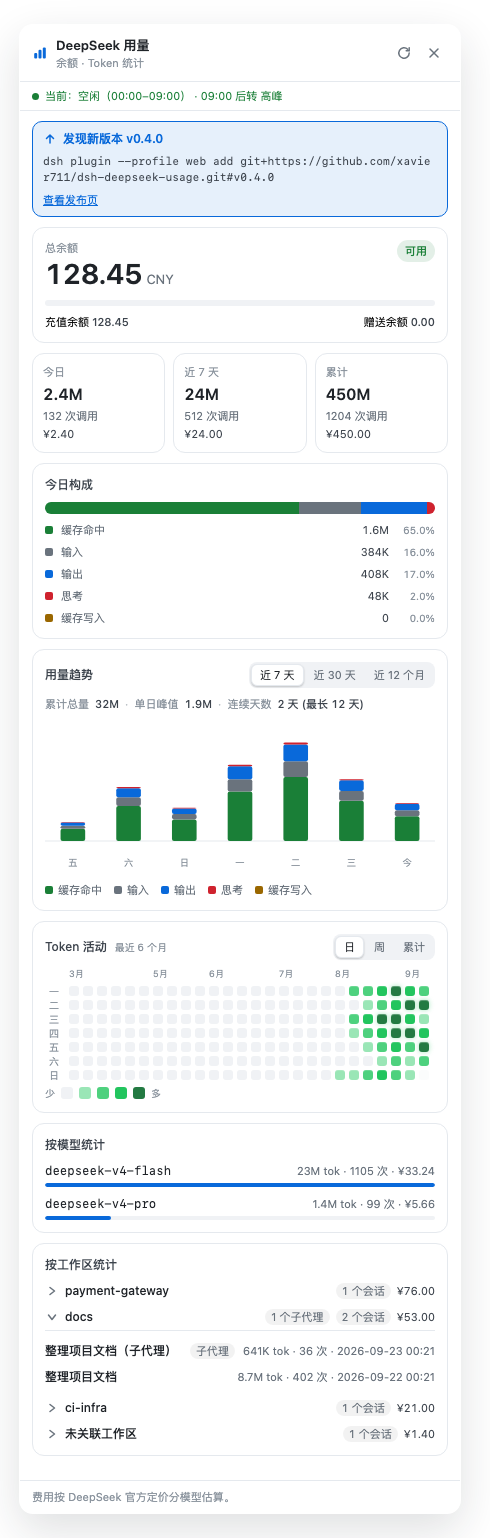
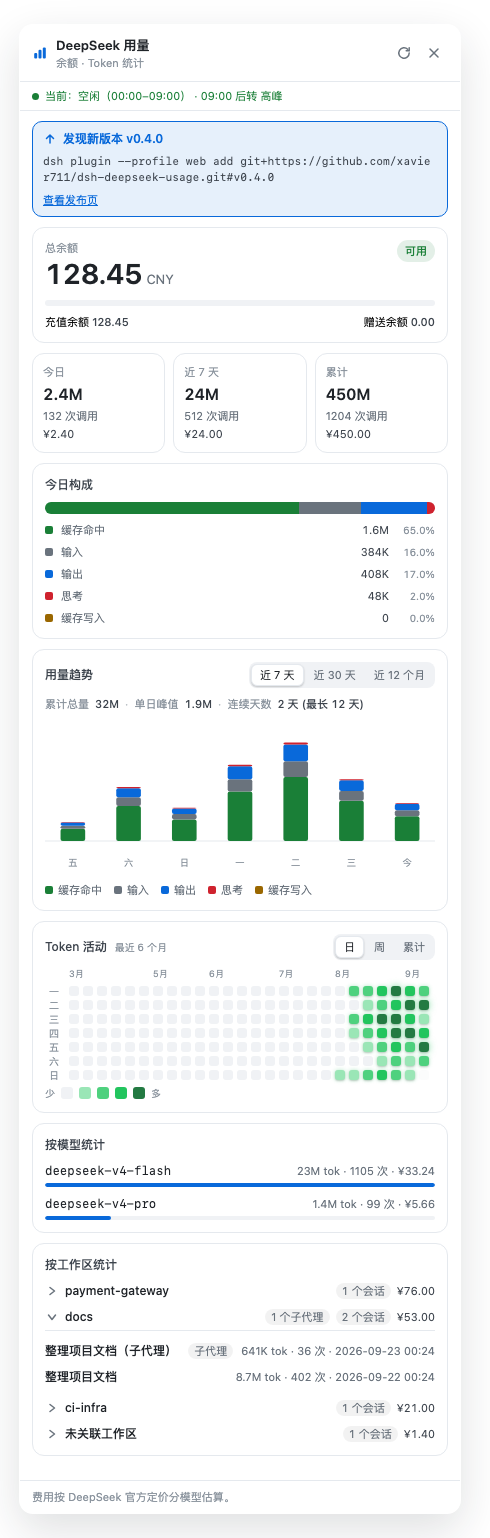
去掉列底色，改成「这一列每个格子自己带阴影」
用户第二次纠正：「没有高亮的底。codex 是这样的：列视图的时候，是这一列的每个格子
有高光，其实看起来就是阴影吧。」

- 去掉整列垫底（.du-activityWeek[data-active]::before 与配套的 hoverCol 状态、
  鼠标事件全部移除）—— 列本身不加任何背景。
- 有量的格子改成「投影 + 同色柔光」：深色 0 1px 3px rgba(0,0,0,.55) +
  0 0 5px rgba(34,197,94,.32)，最深一档柔光到 0 0 8px rgba(34,197,94,.6)；
  浅色把投影透明度降到 .18。空格子 box-shadow: none。
- 红线（AGENTS.md 也记了）：不压列内间距合并、不给列加底色。

实测：l4 = "rgba(0,0,0,.55) 0 1px 3px, rgba(34,197,94,.6) 0 0 8px"、
l2 柔光弱一档、空格子 none；列的 ::before background 是 transparent；
列内 gap 仍是 4px、列高 94px。47 条测试通过，截图重出。

Changed region(s): [[0.4898, 0.8739, 0.8878, 0.9051], [0.7041, 0.6242, 0.8878, 0.7178], [0.398, 0.8739, 0.4592, 0.9051]]

diff --git a/screenshots/render-test.html b/screenshots/render-test.html
@@ -243,7 +243,7 @@ window.__ZH = {
   const SAMPLE = {
  "/dsh-usage/balance": {
   "ok": true,
-  "fetchedAt": 1790180479581,
+  "fetchedAt": 1790180676440,
   "isAvailable": true,
   "currency": "CNY",
   "totalBalance": "128.45",
@@ -252,13 +252,13 @@ window.__ZH = {
  },
  "/dsh-usage/local": {
   "ok": true,
-  "fetchedAt": 1790180479581,
+  "fetchedAt": 1790180676440,
   "sessionCount": 3,
   "errorSessions": 0,
   "pricing": {
    "currency": "CNY",
    "note": "official",
-   "newPricingAt": 1790180479581,
+   "newPricingAt": 1790180676440,
    "weekendOffPeakAt": 1787414400000,
    "holidayOffPeakAt": 1789747200000,
    "peakHours": [
@@ -4058,8 +4058,8 @@ window.__ZH = {
     "title": "优化支付网关性能",
     "workspace": "/Users/alice/dev/payment-gateway",
     "subagent": false,
-    "createdAt": 1790094079581,
-    "lastActiveAt": 1790176879581,
+    "createdAt": 1790094276440,
+    "lastActiveAt": 1790177076440,
     "calls": 618,
     "inputTokens": 1900000,
     "outputTokens": 2100000,
@@ -4074,8 +4074,8 @@ window.__ZH = {
     "title": "整理项目文档",
     "workspace": "/Users/alice/docs",
     "subagent": false,
-    "createdAt": 1790007679581,
-    "lastActiveAt": 1790007679581,
+    "createdAt": 1790007876440,
+    "lastActiveAt": 1790007876440,
     "calls": 402,
     "inputTokens": 1300000,
     "outputTokens": 1500000,
@@ -4090,8 +4090,8 @@ window.__ZH = {
     "title": "修复 CI 流水线",
     "workspace": "/Users/alice/ci-infra",
     "subagent": false,
-    "createdAt": 1789921279581,
-    "lastActiveAt": 1789921279581,
+    "createdAt": 1789921476440,
+    "lastActiveAt": 1789921476440,
     "calls": 184,
     "inputTokens": 500000,
     "outputTokens": 600000,
@@ -4106,8 +4106,8 @@ window.__ZH = {
     "title": "整理项目文档（子代理）",
     "workspace": "/Users/alice/docs",
     "subagent": true,
-    "createdAt": 1790007679581,
-    "lastActiveAt": 1790094079581,
+    "createdAt": 1790007876440,
+    "lastActiveAt": 1790094276440,
     "calls": 36,
     "inputTokens": 90000,
     "outputTokens": 110000,
@@ -4122,8 +4122,8 @@ window.__ZH = {
     "title": "临时想法速记",
     "workspace": null,
     "subagent": false,
-    "createdAt": 1789834879581,
-    "lastActiveAt": 1789834879581,
+    "createdAt": 1789835076440,
+    "lastActiveAt": 1789835076440,
     "calls": 27,
     "inputTokens": 60000,
     "outputTokens": 80000,
@@ -4177,8 +4177,8 @@ window.__ZH = {
       "id": "s1",
       "title": "优化支付网关性能",
       "subagent": false,
-      "createdAt": 1790094079581,
-      "lastActiveAt": 1790176879581,
+      "createdAt": 1790094276440,
+      "lastActiveAt": 1790177076440,
       "calls": 618,
       "inputTokens": 1900000,
       "outputTokens": 2100000,
@@ -4231,8 +4231,8 @@ window.__ZH = {
       "id": "s2",
       "title": "整理项目文档",
       "subagent": false,
-      "createdAt": 1790007679581,
-      "lastActiveAt": 1790007679581,
+      "createdAt": 1790007876440,
+      "lastActiveAt": 1790007876440,
       "calls": 402,
       "inputTokens": 1300000,
       "outputTokens": 1500000,
@@ -4245,8 +4245,8 @@ window.__ZH = {
       "id": "s4",
       "title": "整理项目文档（子代理）",
       "subagent": true,
-      "createdAt": 1790007679581,
-      "lastActiveAt": 1790094079581,
+      "createdAt": 1790007876440,
+      "lastActiveAt": 1790094276440,
       "calls": 36,
       "inputTokens": 90000,
       "outputTokens": 110000,
@@ -4299,8 +4299,8 @@ window.__ZH = {
       "id": "s3",
       "title": "修复 CI 流水线",
       "subagent": false,
-      "createdAt": 1789921279581,
-      "lastActiveAt": 1789921279581,
+      "createdAt": 1789921476440,
+      "lastActiveAt": 1789921476440,
       "calls": 184,
       "inputTokens": 500000,
       "outputTokens": 600000,
@@ -4353,8 +4353,8 @@ window.__ZH = {
       "id": "s5",
       "title": "临时想法速记",
       "subagent": false,
-      "createdAt": 1789834879581,
-      "lastActiveAt": 1789834879581,
+      "createdAt": 1789835076440,
+      "lastActiveAt": 1789835076440,
       "calls": 27,
       "inputTokens": 60000,
       "outputTokens": 80000,
@@ -4369,7 +4369,7 @@ window.__ZH = {
  },
  "/dsh-usage/version": {
   "ok": true,
-  "checkedAt": 1790180479581,
+  "checkedAt": 1790180676440,
   "installed": "0.1.0",
   "latest": "0.4.0",
   "updateAvailable": true,
@@ -4377,7 +4377,7 @@ window.__ZH = {
  },
  "/dsh-usage/period": {
   "ok": true,
-  "now": 1790180479581,
+  "now": 1790180676440,
   "period": "offPeak",
   "range": [
    0,

diff --git a/lib/client.js b/lib/client.js
@@ -199,16 +199,13 @@ window.__ModuleLoader__.load({
    所以改尺寸必须看探针的 BUDGET=...:fit|OVERFLOW。 */
 .du-activityCell{width:10px;height:10px;border-radius:3px;flex:none;position:relative;transition:opacity .1s}
 .du-activityCell[data-dim]{opacity:.25}
-/* 有量的格子加一道顶部内高光 + 轻外发光（"上釉"的观感，参考 Codex 那种一颗颗亮格子）；
-   空格子保持纯色，不抢视线。注意别动列内间距、别把整列并成一块 —— 用户明确说过合并很丑。 */
-.du-activityCell[data-level="1"],.du-activityCell[data-level="2"],.du-activityCell[data-level="3"],.du-activityCell[data-level="4"]{box-shadow:inset 0 1px 0 rgba(255,255,255,.16)}
-.du-activityCell[data-level="4"]{box-shadow:inset 0 1px 0 rgba(255,255,255,.26),0 0 5px rgba(34,197,94,.4)}
-body[data-ds-dark-theme] .du-activityCell[data-level="1"],body[data-ds-dark-theme] .du-activityCell[data-level="2"],body[data-ds-dark-theme] .du-activityCell[data-level="3"],body[data-ds-dark-theme] .du-activityCell[data-level="4"]{box-shadow:inset 0 1px 0 rgba(255,255,255,.28)}
-body[data-ds-dark-theme] .du-activityCell[data-level="4"]{box-shadow:inset 0 1px 0 rgba(255,255,255,.34),0 0 6px rgba(34,197,94,.45)}
-/* 鼠标所在的那一列整体轻微提亮（列背后垫一层淡淡的底），让人看出"这一周是一组" */
-.du-activityWeek{position:relative}
-.du-activityWeek[data-active]::before{content:"";position:absolute;inset:-3px -3px;border-radius:5px;background:var(--dsw-alias-fill-l2,#2a2e34);opacity:.55}
-.du-activityWeek > *{position:relative}
+/* 有量的格子：投影 + 同色柔光，看起来像浮起来的一颗（参考 Codex 列视图的观感）。
+   注意两条红线：**不要给列加底色**、**不要把列内间距压掉合并成一列** —— 用户都明确否过。
+   空格子保持纯色、不加任何阴影，不抢视线。 */
+.du-activityCell[data-level="1"],.du-activityCell[data-level="2"],.du-activityCell[data-level="3"],.du-activityCell[data-level="4"]{box-shadow:0 1px 2px rgba(0,0,0,.18),0 0 4px rgba(34,197,94,.3)}
+.du-activityCell[data-level="4"]{box-shadow:0 1px 2px rgba(0,0,0,.2),0 0 7px rgba(34,197,94,.55)}
+body[data-ds-dark-theme] .du-activityCell[data-level="1"],body[data-ds-dark-theme] .du-activityCell[data-level="2"],body[data-ds-dark-theme] .du-activityCell[data-level="3"],body[data-ds-dark-theme] .du-activityCell[data-level="4"]{box-shadow:0 1px 3px rgba(0,0,0,.55),0 0 5px rgba(34,197,94,.32)}
+body[data-ds-dark-theme] .du-activityCell[data-level="4"]{box-shadow:0 1px 3px rgba(0,0,0,.55),0 0 8px rgba(34,197,94,.6)}
 .du-activityCaption{color:var(--dsw-alias-label-caption);font-size:10px;line-height:14px}
 .du-calLegend{flex:none;align-items:center;gap:6px;color:var(--dsw-alias-label-caption);font-size:10px;line-height:14px;display:flex}
 .du-calSwatch{width:12px;height:12px;border-radius:3px;flex:none}
@@ -1048,8 +1045,6 @@ body[data-ds-dark-theme] .du-activityCell[data-level="4"],body[data-ds-dark-them
       // 这张卡通常在折叠线以下：等它第一次进入视口再演，每次打开只演一次（played 记住
       // 演过没有），只有点刷新才重来 —— 之前每进一次视口就重放，来回滚会一直闪。
       const [play, setPlay] = react.useState(0);
-      // 鼠标停在哪一列（哪一周）上：整列轻微提亮，让人看出这一周是一组。
-      const [hoverCol, setHoverCol] = react.useState(-1);
       const cardRef = react.useRef(null);
       const played = react.useRef(false);
       react.useEffect(() => {
@@ -1174,13 +1169,7 @@ body[data-ds-dark-theme] .du-activityCell[data-level="4"],body[data-ds-dark-them
       });
 
       // 逐列错峰淡入（每列 16ms，26 列共约 0.4s）；减少动态效果时 css 里整段关掉。
-      const renderWeek = (week, weekIndex) => react.createElement("div", {
-        key: weekIndex,
-        className: styles.activityWeek,
-        "data-active": weekIndex === hoverCol ? "" : undefined,
-        onMouseEnter: () => setHoverCol(weekIndex),
-        onMouseLeave: () => setHoverCol(-1)
-      },
+      const renderWeek = (week, weekIndex) => react.createElement("div", { key: weekIndex, className: styles.activityWeek },
         week.map((day, row) => {
           const delay = { animationDelay: `${weekIndex * 16}ms` };
           if (!isPast(day)) {
